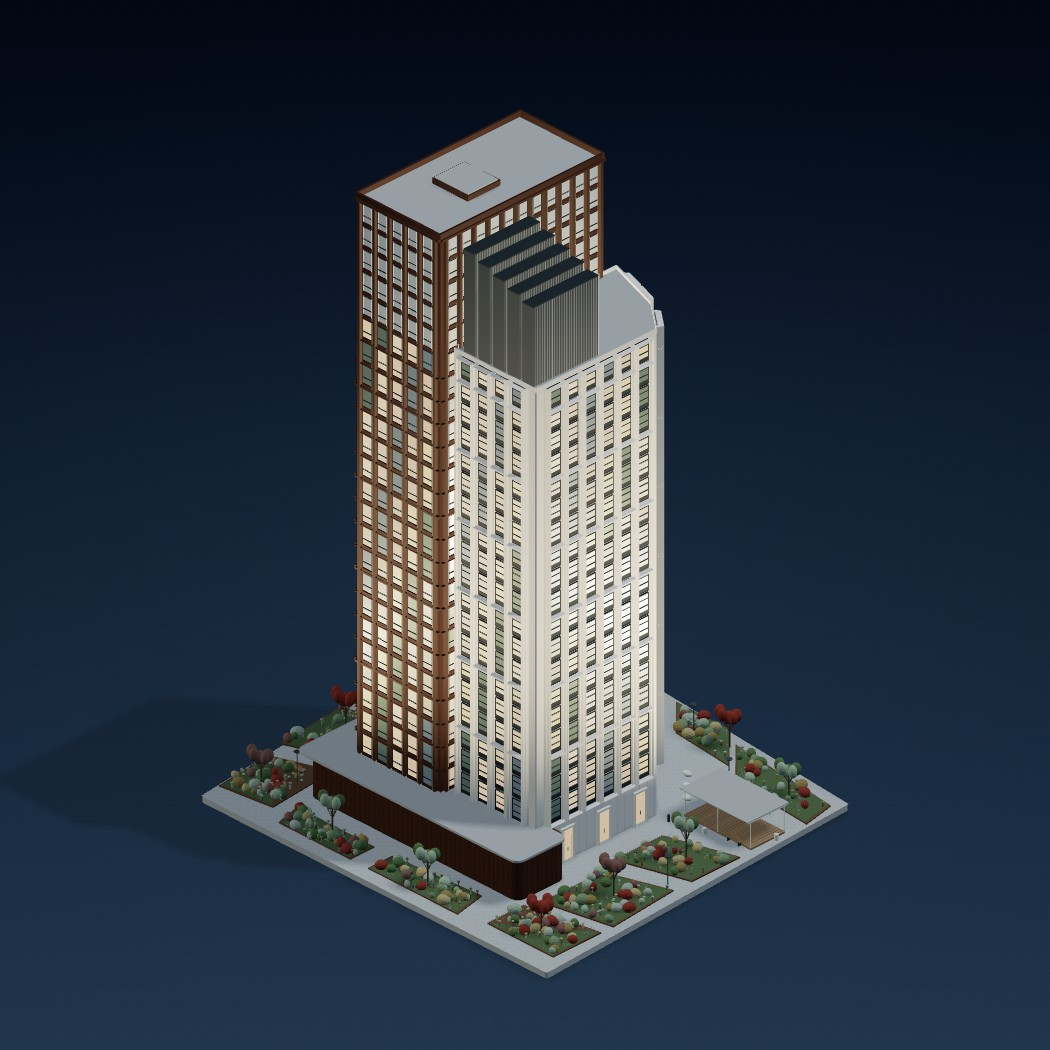
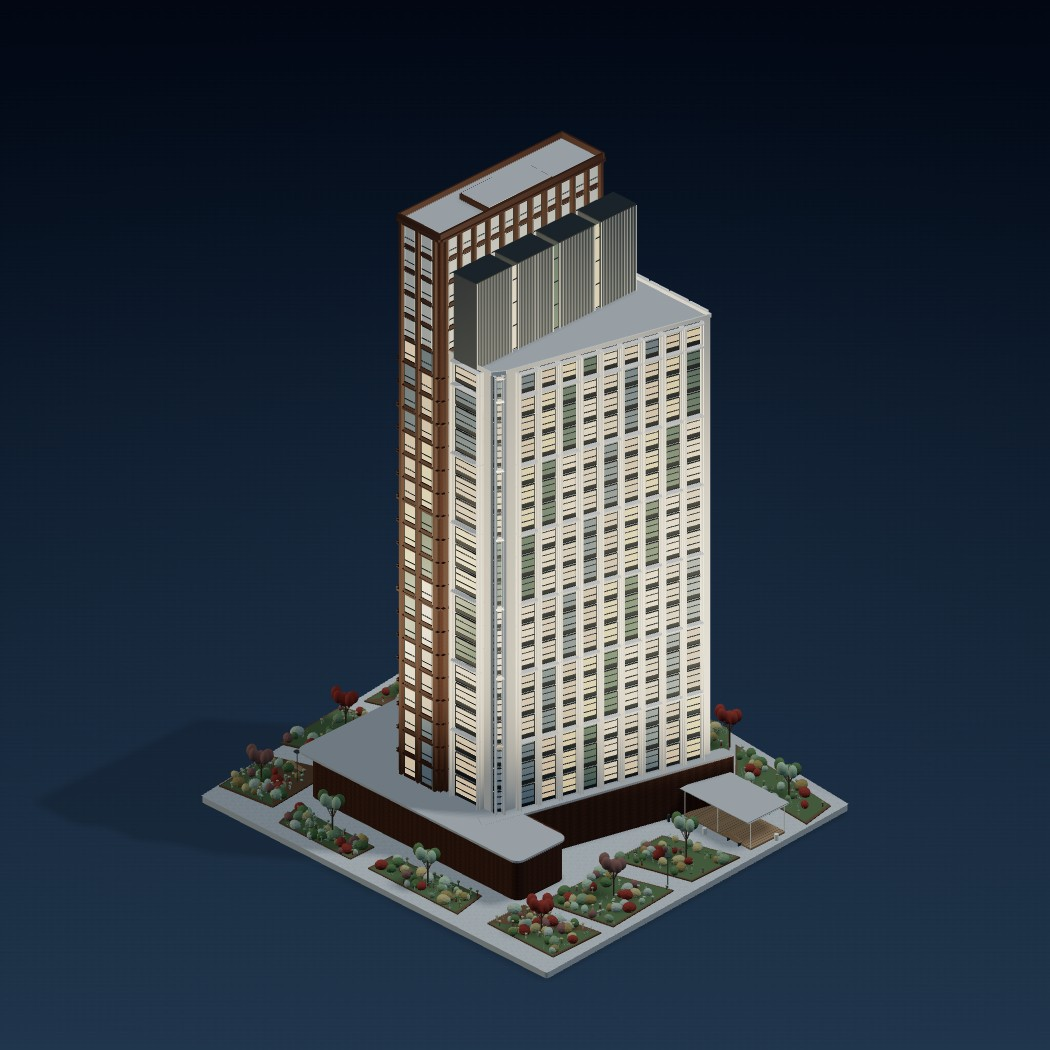
Rebuild project 2 wedge plan and longitudinal roof row from top reference

Changed region(s): [[0.3352, 0.0914, 0.701, 0.8229], [0.3048, 0.7924, 0.3657, 0.8229]]

diff --git a/assets/photo-tower-project.js b/assets/photo-tower-project.js
@@ -30,7 +30,7 @@
   function brickBox(x,y,z,w,h,d){const G=new T.BoxGeometry(w,h,d),uv=G.attributes.uv;for(let f=0;f<6;f++){const uw=f<2?d:w,vh=f===2||f===3?d:h;for(let k=0;k<4;k++){const i=f*4+k;uv.setXY(i,uv.getX(i)*uw/2.4,uv.getY(i)*vh/1.2)}}geo.push(G);const o=new T.Mesh(G,M.brick);o.position.set(x,y,z);o.castShadow=o.receiveShadow=true;vpm.add(o);}
   const site=[[-31,-27],[27,-27],[32,20],[20,30],[-28,26]];
   solid(site,-.8,.8,M.roof,.5);polygon(site,.025,M.pave);
-  const brown={x:7,z:-.5,w:14,d:27,f:24,y0:6.2},whitePlan=[[-14,-12],[-.15,-12],[-.15,15],[-9,12],[-14,8]],FH=3.15,whiteFloors=19,whiteTop=66.05,brownTop=81.8;
+  const brown={x:3.5,z:-.5,w:7,d:27,f:24,y0:6.2},whitePlan=[[-8.5,-11.5],[-7.5,-13],[-.15,-13],[-.15,15],[-16,15]],FH=3.15,whiteFloors=19,whiteTop=66.05,brownTop=81.8;
   const podium=[[-17,-18],[18,-18],[18,16],[14,20],[-1,20],[-1,-10],[-17,-10]];
   solid(podium,.12,5.95,M.brick,1.3);solid(podium.map(([x,z])=>[x*1.065,z*1.065]),6.12,.3,M.roof,1.4);
   brickBox(brown.x,brown.y0+brown.f*FH/2,brown.z,brown.w,brown.f*FH,brown.d);
@@ -38,7 +38,7 @@
   // Exposed wedge-shaped roof and thin parapet follow the actual five-sided plan.
   polygon(whitePlan,whiteTop+.025,M.roof);
   whitePlan.forEach((a,i)=>{const b=whitePlan[(i+1)%whitePlan.length],dx=b[0]-a[0],dz=b[1]-a[1],L=Math.hypot(dx,dz);box(M.white,(a[0]+b[0])/2,whiteTop+.26,(a[1]+b[1])/2,L,.5,.18,-Math.atan2(dz,dx));});
-  const brownPlan=[[0,-14],[14,-14],[14,13],[0,13]];
+  const brownPlan=[[0,-14],[7,-14],[7,13],[0,13]];
   function windows(plan,floors,start,brownFacade){plan.forEach((a,i)=>{const b=plan[(i+1)%plan.length],dx=b[0]-a[0],dz=b[1]-a[1],L=Math.hypot(dx,dz),nx=dz/L,nz=-dx/L,angle=-Math.atan2(dz,dx),margin=brownFacade?.7:1.25,n=Math.max(1,Math.floor((L-2*margin)/(brownFacade?2.25:2.7))),pitch=(L-2*margin)/n;
    for(let j=0;j<n;j++){const t=(margin+(j+.5)*pitch)/L,x=a[0]+dx*t,z=a[1]+dz*t,ww=pitch-(brownFacade?.95:.65);
     for(let f=0;f<floors;f++){const y=start+f*FH+FH/2,gm=brownFacade&&f>=19?upperGlass:glass[(j+Math.floor(f/3)+i)%glass.length];box(gm,x+nx*.10,y,z+nz*.10,ww,FH-.28,.14,angle);
@@ -60,30 +60,36 @@
    }
   });}
   windows(brownPlan,brown.f,brown.y0,true);windows(whitePlan,whiteFloors,6.2,false);
-  // White lower-storey entrances and stone panel joints remain exposed on the west/front.
-  for(const z of [-7,-1,5]){box(glass[1],-14.14,2.4,z,.12,4.2,1.8);for(const d of [-1,1])box(M.white,-14.28,2.5,z+d*1.0,.40,4.6,.16);box(M.white,-14.27,4.7,z,.42,.18,2.1);box(M.steel,-14.3,1.8,z,.07,.5,.06);}
-  for(let z=-10;z<8;z+=1.25)box(M.roof,-14.18,3,z,.016,5.8,.025);
+  // Entrances follow the oblique white elevation, not the old rectangular wall.
+  const tx=-7.5/Math.hypot(7.5,26.5),tz=26.5/Math.hypot(7.5,26.5),nx=-tz,nz=tx,doorAngle=-Math.atan2(tz,tx);
+  for(const z of [-7,-1,5]){const x=-16+(15-z)*7.5/26.5;
+   box(glass[1],x+nx*.14,2.4,z+nz*.14,1.8,4.2,.12,doorAngle);
+   for(const side of [-1,1])box(M.white,x+tx*side+nx*.28,2.5,z+tz*side+nz*.28,.16,4.6,.40,doorAngle);
+   box(M.white,x+nx*.28,4.7,z+nz*.28,2.1,.18,.42,doorAngle);
+  }
+  // A diagonal podium wing echoes the white facade's actual footprint.
+  const apron=[[-9,-16],[-6.9,-14.8],[-16,17],[-18,17]];
+  solid(apron,.12,5.95,M.brick,.35);solid(apron,6.12,.30,M.roof,.45);
   // Broad brick-base portal, glazing and slender entrance mullions.
   box(glass[3],7,2.3,20.04,10,3.9,.12);for(let x=2;x<=12;x+=1.25)box(M.bronze,x,2.3,20.15,.075,4.1,.2);box(M.brown,7,4.4,20.14,10.4,.18,.25);
   // Two projecting glazed bays on the brown wall, as visible in the close reference.
-  for(const z of [-1.6,1.3]){box(M.bronze,14.50,39.3,z,1.05,5.8,2.4);box(glass[2],15.05,39.3,z,.12,5.5,2.15);for(const y of [36.5,39.3,42.1])box(M.edge,15.14,y,z,.16,.1,2.4);}
+  for(const z of [-1.6,1.3]){box(M.bronze,7.50,39.3,z,1.05,5.8,2.4);box(glass[2],8.05,39.3,z,.12,5.5,2.15);for(const y of [36.5,39.3,42.1])box(M.edge,8.14,y,z,.16,.1,2.4);}
   // Brown roof coping, raised roof hatch and recessed grey roof plane.
-  box(M.roof,7,brownTop+.08,-.5,13.5,.15,26.5);
-  for(const x of [.04,13.96])box(M.brown,x,brownTop+.48,-.5,.28,.8,27.2);
-  for(const z of [-14.04,13.04])box(M.brown,7,brownTop+.48,z,14.2,.8,.28);
-  box(M.brown,7,brownTop+.50,-2.8,6,.8,5.4);box(M.roof,7,brownTop+.96,-2.8,5.6,.15,5);
-  // Five separate tall dark blades and glazed slots, visible in the roof view.
-  // Heights are estimated from the supplied silhouette, below the brown crown.
+  box(M.roof,3.5,brownTop+.08,-.5,6.5,.15,26.5);
+  for(const x of [.04,6.96])box(M.brown,x,brownTop+.48,-.5,.28,.8,27.2);
+  for(const z of [-14.04,13.04])box(M.brown,3.5,brownTop+.48,z,7.2,.8,.28);
+  box(M.brown,2.6,brownTop+.50,-.5,5,.8,10.6);box(M.roof,2.6,brownTop+.96,-.5,4.65,.15,10.25);
+  // Reference roof view: four broad dark faces in one row parallel to the
+  // long brown facade (Z), with narrow glazed slots and a triangular forecourt.
   const roofBlades=[];
-  for(let j=0;j<5;j++){
-   const x=-12+j*2.45,h=10.8+j*.80,top=whiteTop+h;roofBlades.push({x,top});
-   box(M.screen,x,whiteTop+h/2,-6,1.85,h,10.7);
-   box(M.frame,x,top+.07,-6,1.92,.14,10.85);
-   for(const side of [-1,1]){
-    box(M.edge,x+side*.87,whiteTop+h/2,-.57,.075,h,.16);
-    for(let z=-11;z<-.6;z+=.28)box(M.roof,x+side*.94,whiteTop+h/2,z,.04,h,.045);
-   }
-   if(j<4){box(glass[(j+2)%glass.length],x+1.22,whiteTop+h/2,-.60,.52,h-.3,.10);for(let y=whiteTop+.3;y<top;y+=3.15)box(M.frame,x+1.22,y,-.48,.56,.075,.15);}
+  for(let j=0;j<4;j++){
+   const x=-3.4,z=-10.35+j*6.85,h=11.7,top=whiteTop+h;roofBlades.push({x,z,top});
+   box(M.screen,x,whiteTop+h/2,z,3.8,h,5.9);
+   box(M.frame,x,top+.07,z,3.92,.14,6.0);
+   // The exposed front face is wide along Z; its fine ribs are vertical.
+   for(let off=-2.75;off<2.8;off+=.25)box(M.roof,x-1.93,whiteTop+h/2,z+off,.045,h,.045);
+   for(const side of [-1,1])box(M.edge,x-1.99,whiteTop+h/2,z+side*2.9,.14,h,.07);
+   if(j<3){const gz=z+3.42;box(glass[(j+2)%glass.length],x-1.77,whiteTop+h/2,gz,.10,h-.3,.78);for(let y=whiteTop+.3;y<top;y+=3.15)box(M.frame,x-1.85,y,gz,.15,.075,.82);}
   }
   // Angular planted beds, cut by the paved circulation network.
   const beds=[
@@ -129,7 +135,7 @@
   // Fine paving joints at the entrance plaza and low cylindrical site furniture.
   for(const [x,z] of [[-16,8],[-17,20],[20,-7],[18,23]])stamp(cylinder,M.steel,x,.5,z,.16,.95,.16);
   batches.forEach(({G,m,list})=>{const mesh=new T.InstancedMesh(G,m,list.length);list.forEach((matrix,i)=>mesh.setMatrixAt(i,matrix));mesh.instanceMatrix.needsUpdate=true;mesh.castShadow=mesh.receiveShadow=true;vpm.add(mesh)});
-  root.userData.geo=geo;root.userData.materials=materials;root.userData.reference={name:'Project 2 from supplied photos',estimated:true,brownWhiteTower:true,whitePortalMouldings:true,brickPodium:true,roofScreen:true,roofBlades,whitePlan,portalDepth:.94,upperBrownBays:true,podiumOverhang:1.065,pergola:true,hangingRings:2,mixedPlanting:true};
+  root.userData.geo=geo;root.userData.materials=materials;root.userData.reference={name:'Project 2 from supplied photos',estimated:true,brownWhiteTower:true,whitePortalMouldings:true,brickPodium:true,roofScreen:true,roofBlades,bladeAxis:'z',obliqueWhiteFront:true,whitePlan,portalDepth:.94,upperBrownBays:true,podiumOverhang:1.065,pergola:true,hangingRings:2,mixedPlanting:true};
   return{root,g,radius:Math.max(Math.hypot(63,57)/2,82.6*.95),maxH:82.6};
  }
  global.GranPhotoTower={build};

diff --git a/review/babushkinskaya-refinement/README.md b/review/babushkinskaya-refinement/README.md
@@ -1,22 +1,11 @@
-# Уточнение второго проекта — ул. Баб****ая
+# Второй проект — уточнение по приоритетному виду сверху
 
-Пользователь подтвердил: новые изображения относятся ко второй карточке, а не к третьему кварталу. Основа публикации `cda1dd62a7f264b2f23b8900a605ac57239e6ac4`.
+Основа публикации: cda1dd62a7f264b2f23b8900a605ac57239e6ac4. Вторая карточка, ул. Баб****ая; третий проект не заменяется.
 
-## Сверка ракурсов
+Коричневая часть сужена до тонкой пластины: её кровля — длинная узкая полоса, как на приоритетном изображении. Белое крыло имеет диагональную переднюю плоскость по всей длине, а не прямоугольный план с небольшим срезанным уголком. Над ним — четыре широкие тёмные вертикальные части в одном ряду вдоль длинного коричневого фасада (ось Z), с узкими остеклёнными промежутками. Перед ними оставлена открытая клиновидная кровля. Наклон контура сверяется с последним изображением пользователя: ближний выступ белого крыла находится у положительного конца Z. Входы и диагональная часть стилобата следуют этому контуру.
 
-- Общие виды: два соприкасающихся объёма разной высоты, коричневая высокая пластина и белое крыло с косым пятисторонним планом. Верхняя часть коричневого фасада отличается светлыми вытянутыми оконными полосами.
-- Верхний ракурс: самостоятельная скошенная кровля белого крыла, тёмные вертикальные части надстройки со светлыми узкими промежутками, парапеты и прямоугольный объём на кровле коричневой части.
-- Близкие ракурсы: многоступенчатые обрамления белых окон с глубоким геометрическим рельефом, объединение по три этажа, тёмные межэтажные вставки, кирпичный стилобат с закруглением и выступающим металлическим краем.
-- Нижние ракурсы: пергола с подвесными кольцами, мощение и многослойные посадки. Существующие элементы благоустройства сохранены.
+Сохранены глубокие оконные порталы, верхние светлые пролёты коричневого фасада, парапеты и благоустройство. Тексты, паспорт и другие проекты, разрешение и вращение не менялись. Размеры, скрытые стороны и высоты остаются оценочными, без обмерной точности.
 
-## Изменения
+Проверка: npm test, включая лучи в четырёх верхних объёмах, проверку свободной клиновидной кровли и фактического направления диагонального фасада. Chromium: два общих ракурса, вид сверху с камерой напротив длинной стороны, крупный фасад и ночь, ошибки JS и мобильное переполнение. Все кадры — Three.js сайта. before-white.jpg — опубликованная исходная модель до всей доработки.
 
-Убраны сильное округление и неподтверждённый наклон кровли белого крыла, добавлены поверхность и парапет его пятисторонней кровли. Вместо низкого короба надстройки построены пять отдельных высоких оребрённых частей с остеклёнными промежутками. Увеличена глубина четырёхступенчатых оконных порталов, уточнены межэтажные вставки и верхние светлые пролёты коричневого фасада. Расширен вынос кровли стилобата.
-
-Размеры, высоты надстройки, скрытые фасады и этажность — оценки по изображениям, не обмерная модель. Паспорт проекта, все тексты, другие проекты, рендер-разрешение, вращение и выбранное освещение не менялись.
-
-## Проверки
-
-`npm test`: полный существующий набор. Геометрические лучи проверяют глубокий рельеф белого портала и пять высот надстройки ниже коричневого венчания. `browser.cjs`: реальные снимки Three.js с белой/коричневой стороны, кровля, близкий фасад и ночь; проверка ошибок JS и мобильного переполнения. Файлы before-* получены до изменений той же камерой.
-
-Изменение не опубликовано; показывается для согласования конкретной версии.
+Версия обновлена в PR для согласования. Публичный сайт не изменён.

diff --git a/AGENTS.md b/AGENTS.md
@@ -67,3 +67,5 @@
 
 - Пользователь подтвердил, что новые ракурсы коричневой и белой башен относятся ко второй карточке, ул. Баб****ая. Не заменять ими третий проект с двумя кварталами.
 - Приоритеты сверки: взаимное расположение объёмов, скошенный план белого крыла, многоступенчатые оконные порталы, верхняя тёмная надстройка и кирпичный стилобат.
+
+- Для второго проекта последний присланный вид сверху имеет приоритет: надстройка идёт вдоль коричневого корпуса, перед ней — открытая клиновидная кровля; белый передний фасад диагональный по всей длине.
